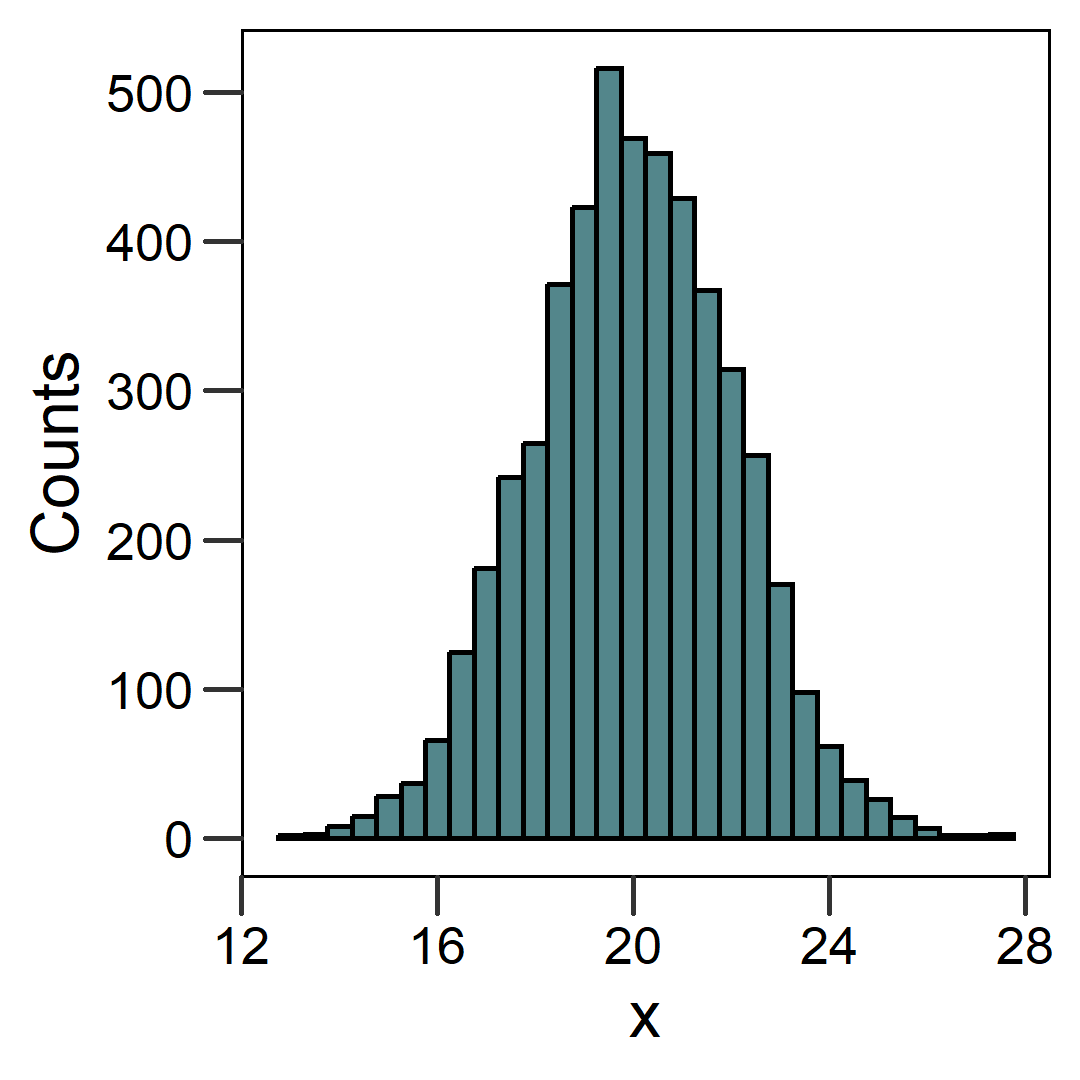
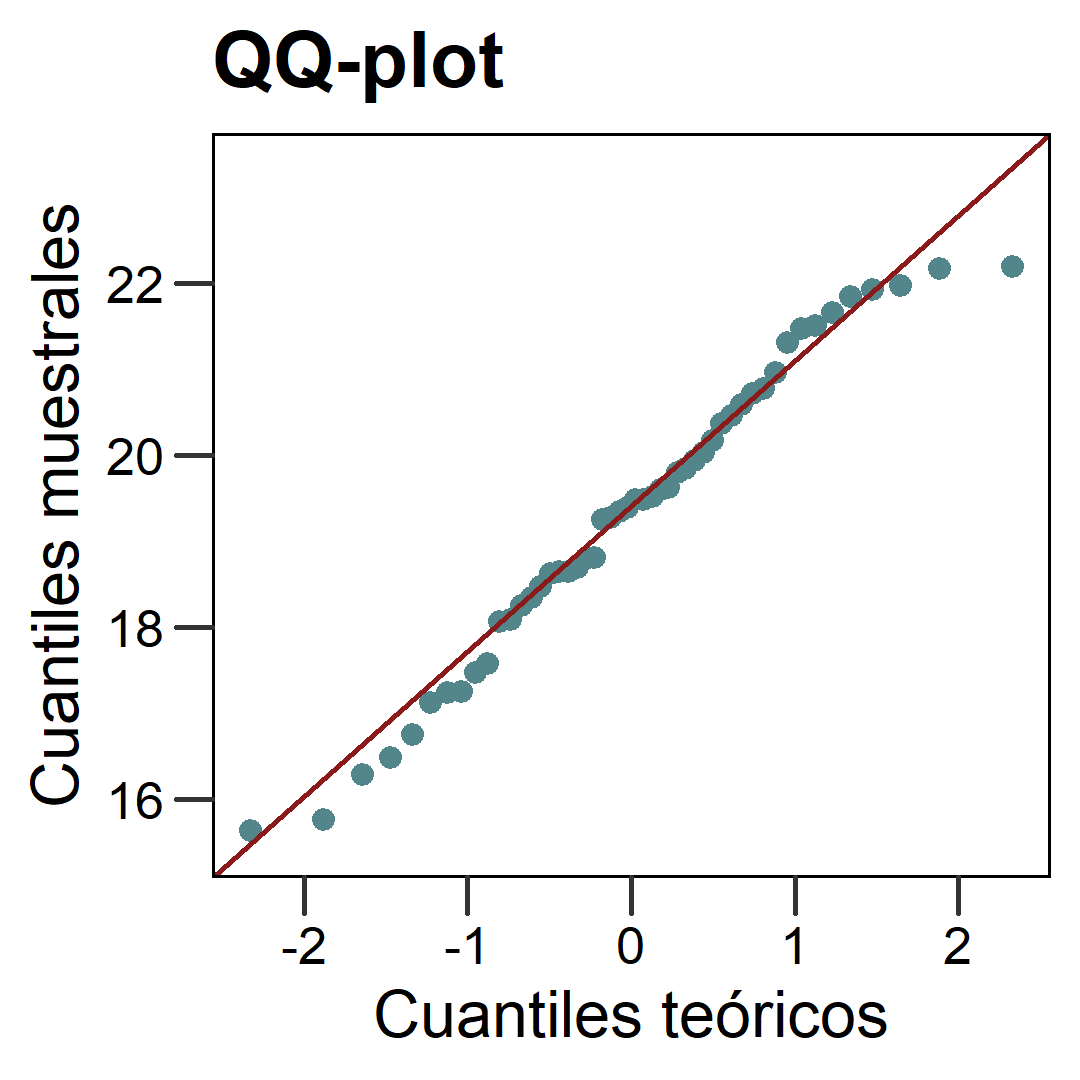
T8

diff --git a/T/8/8.VisDistr.html b/T/8/8.VisDistr.html
@@ -201,6 +201,42 @@ class: animated, fadeIn
   
 ]
 
+---
+class: animated, fadeIn
+
+#### QQ-plot: comprobar si una distribución sigue la normal
+
+.pull-left[
+  
+
+``` r
+  set.seed(10)
+  vector_normal &lt;- rnorm(n = 50, 
+                         mean = 20, sd = 2)
+```
+  
+&lt;img src="8.VisDistr_files/figure-html/unnamed-chunk-13-1.png" width="216" style="display: block; margin: auto;" /&gt;
+  
+  
+- Desviaciones aparentes de la normalidad pueden ser debidas a un tamaño de muestra muy pequeño.
+  
+]
+
+.pull-right[
+  
+  
+
+``` r
+set.seed(10)
+vector_exp &lt;- rnorm(n = 5000, 
+                         mean = 20, sd = 2)
+```
+
+&lt;img src="8.VisDistr_files/figure-html/unnamed-chunk-15-1.png" width="216" style="display: block; margin: auto;" /&gt;
+  
+- A tamaños más grandes, apenas hay desviaciones.
+  
+]
 
 
 ---
